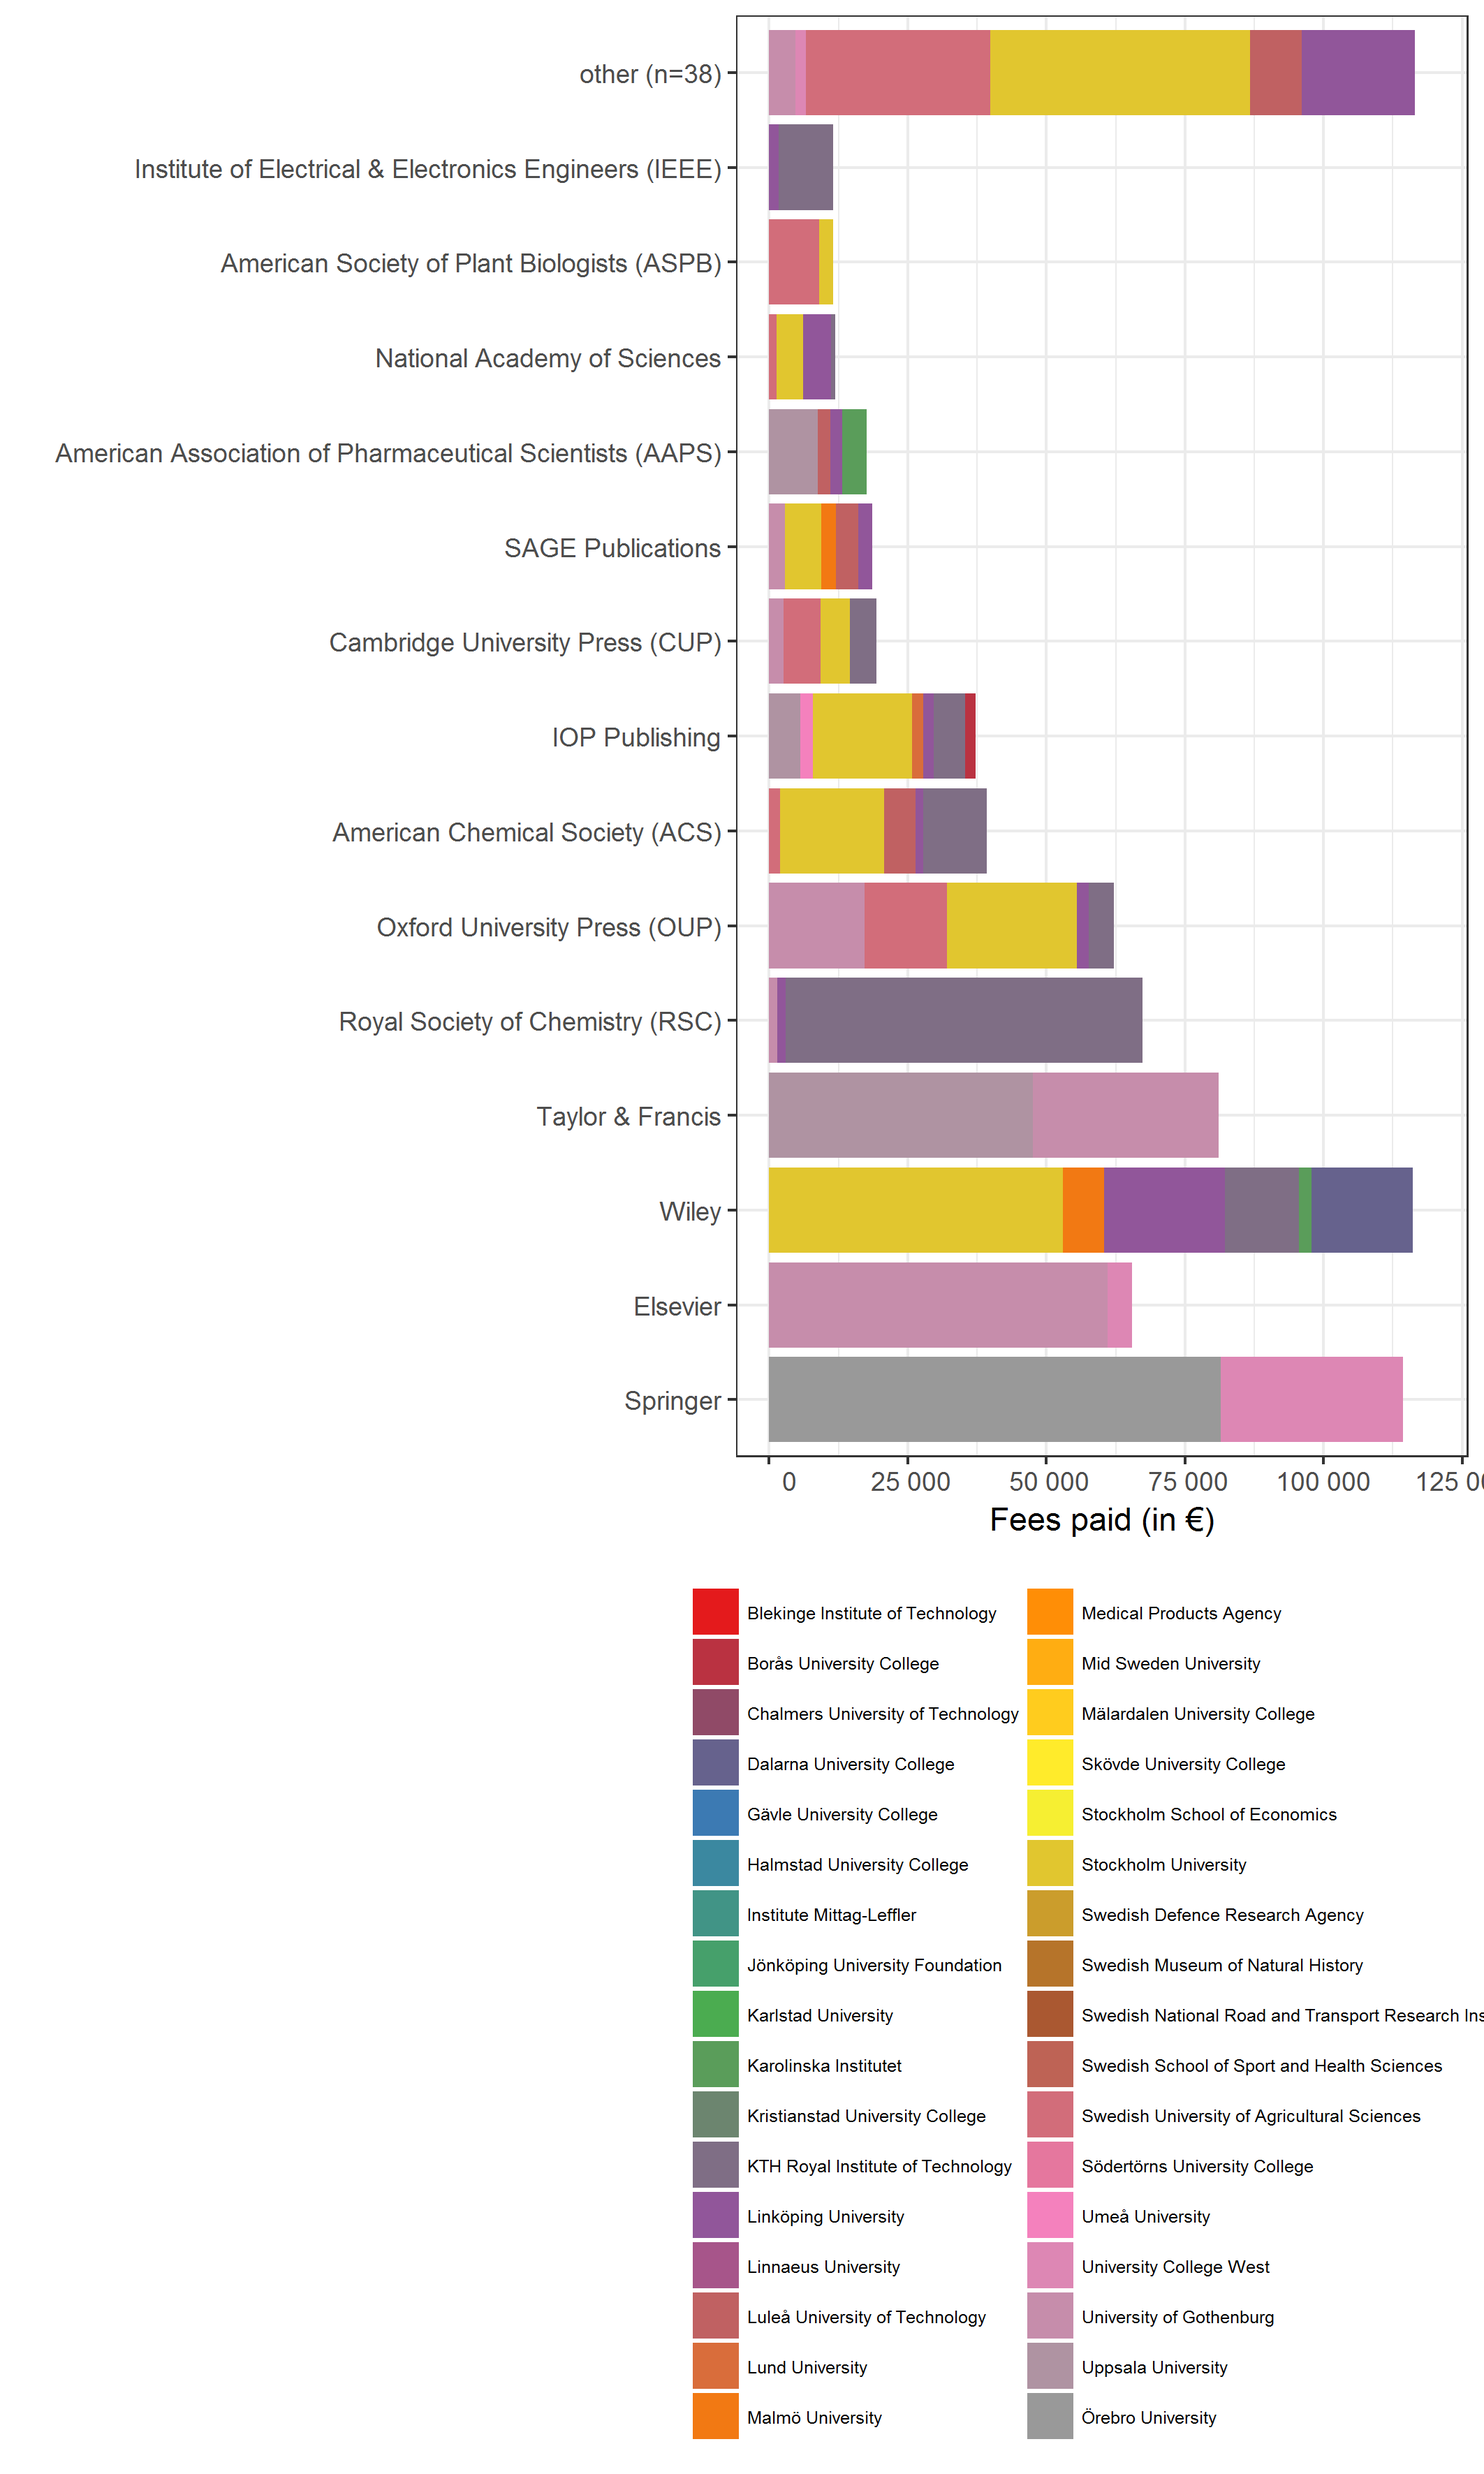
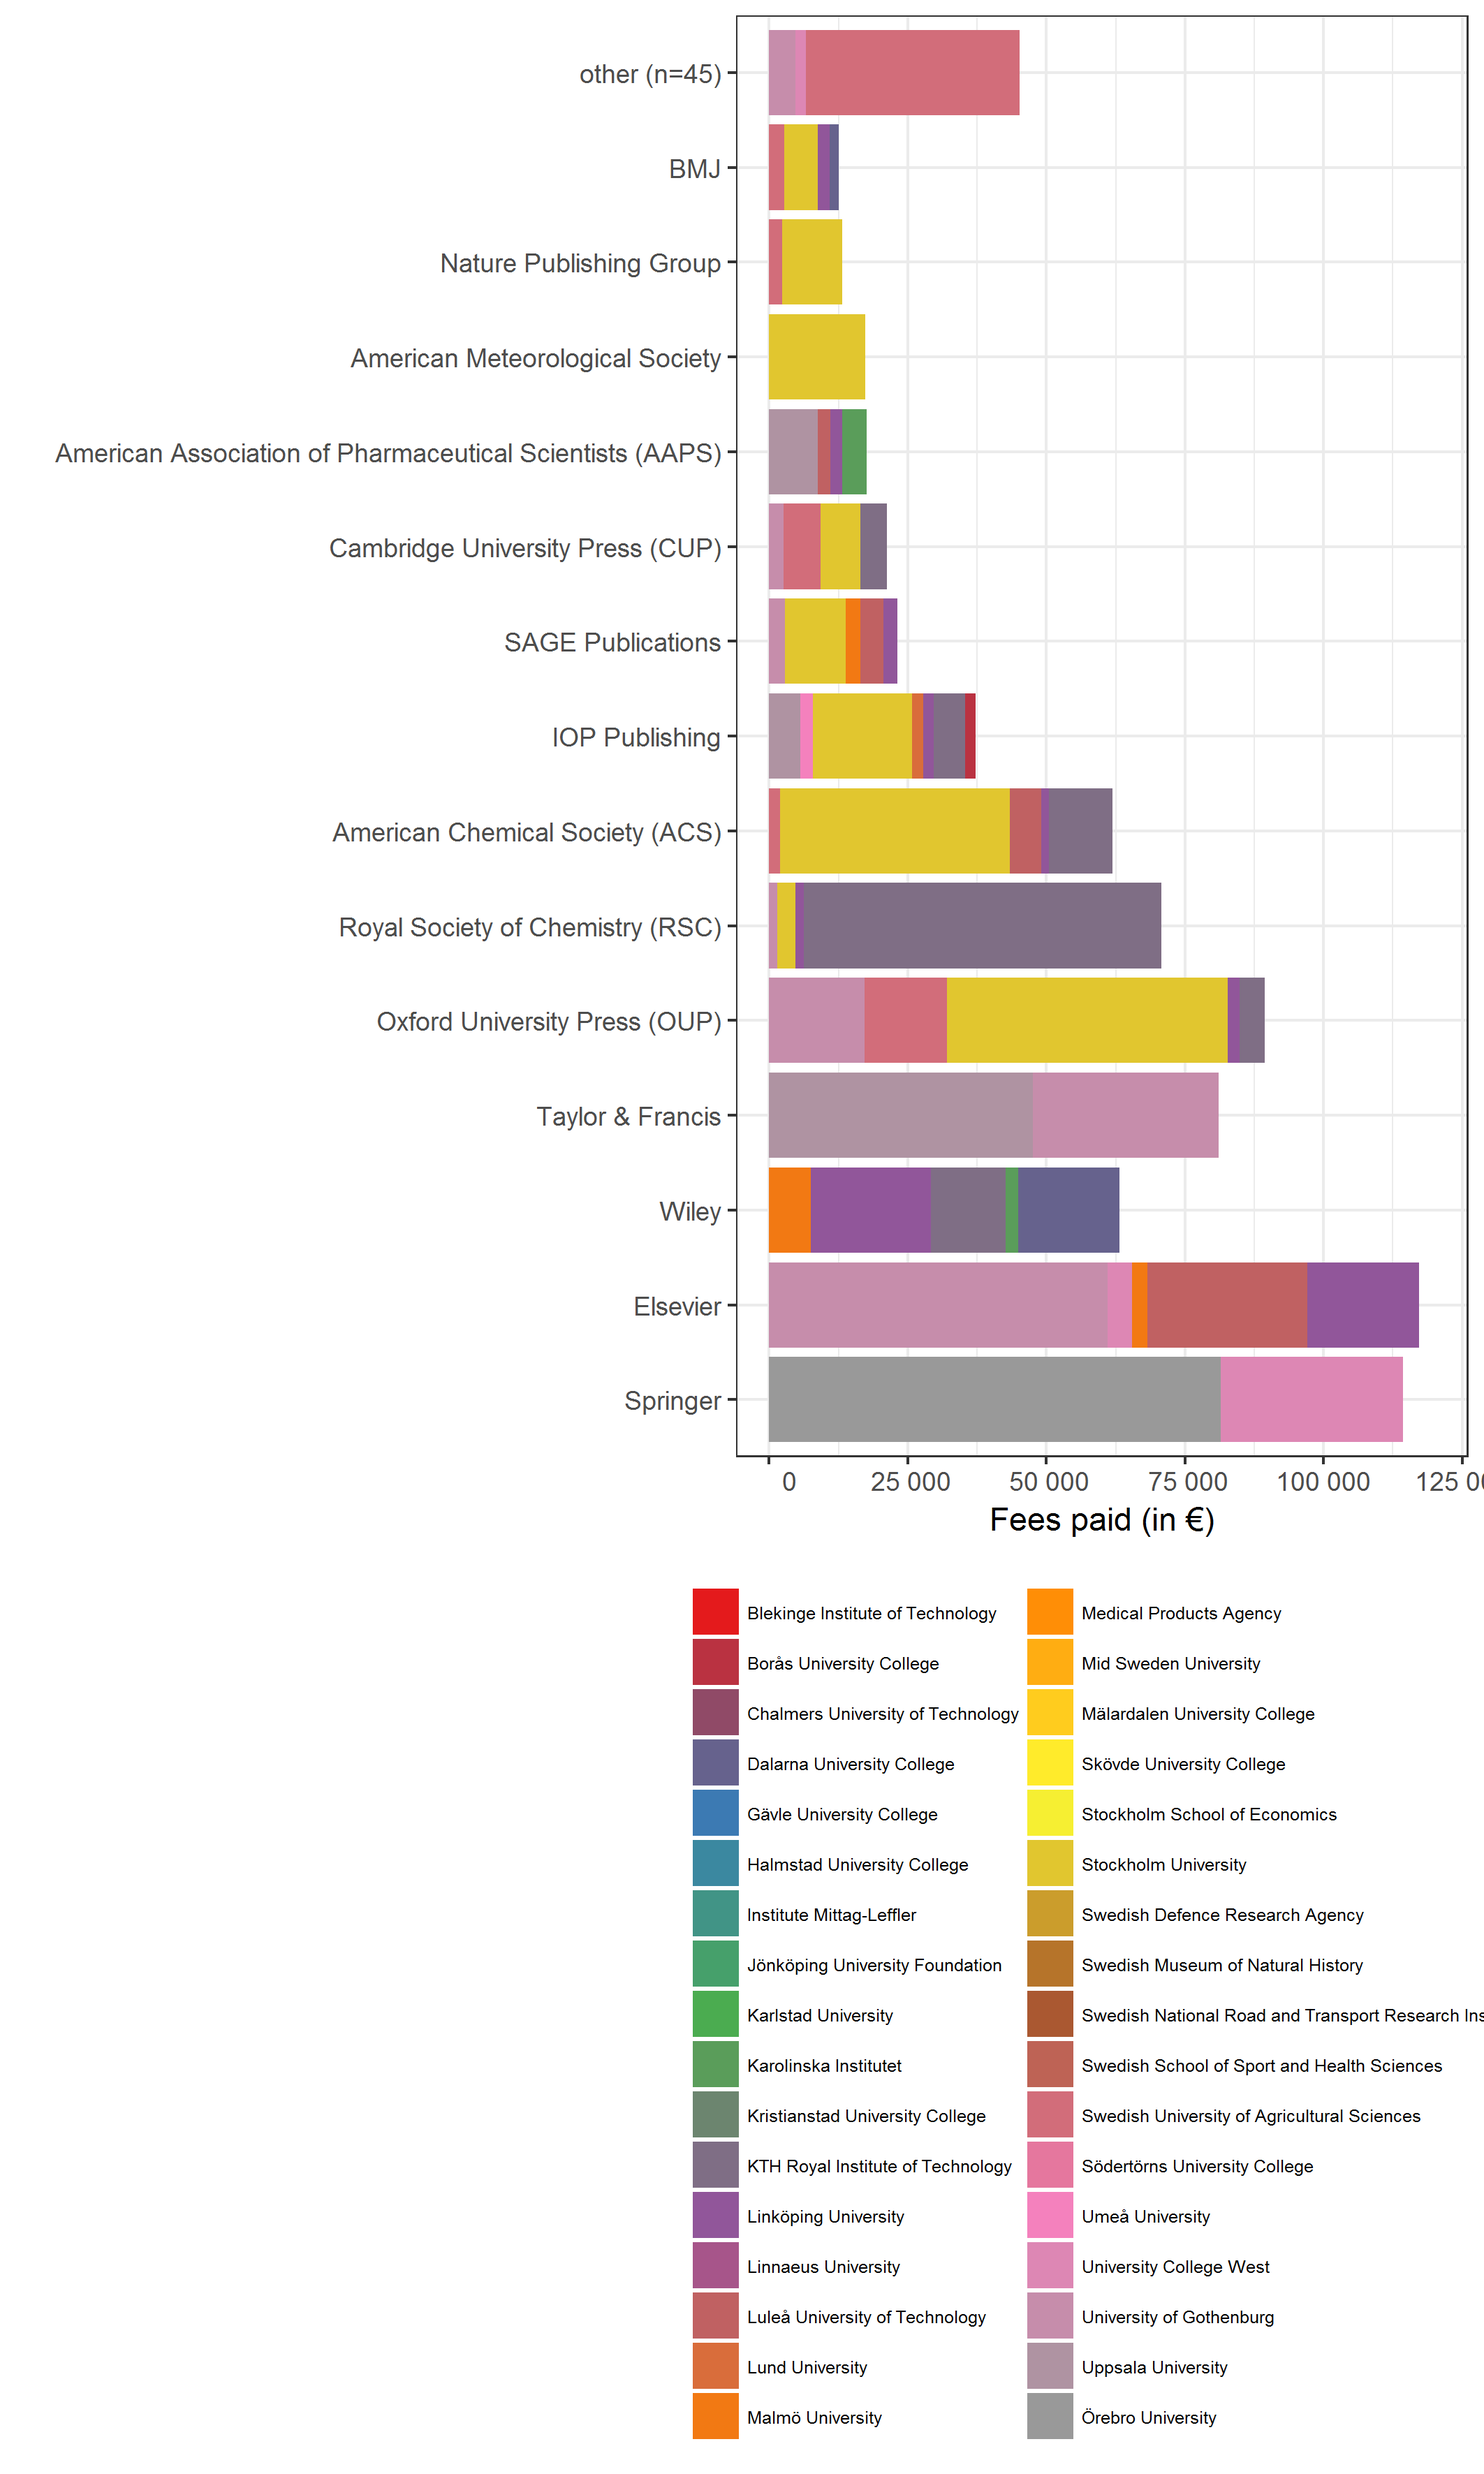
updated md and figures

diff --git a/statistics.md b/statistics.md
@@ -44,9 +44,9 @@ publication of articles in toll-access journals ("hybrid") are provided.
 You may view the dataset at the [project page in
 GitHub](https://github.com/Kungbib/openapc-se/blob/master/data/apc_se.csv).
 
-In total, **7 626 820 €** for **4 046 articles** were paid by the **34
+In total, **8 232 013 €** for **4 360 articles** were paid by the **34
 organisations** that have APC data from so far. The **average APC is 1
-885 €** and the **median is APC 2 200 €**.
+888 €** and the **median is APC 2 200 €**.
 
 <table>
 <thead>
@@ -61,9 +61,9 @@ organisations** that have APC data from so far. The **average APC is 1
 <tbody>
 <tr class="odd">
 <td align="right">34</td>
-<td align="right">4 046</td>
-<td align="right">7 626 820</td>
-<td align="right">1 885</td>
+<td align="right">4 360</td>
+<td align="right">8 232 013</td>
+<td align="right">1 888</td>
 <td align="right">2 200</td>
 </tr>
 </tbody>
@@ -74,9 +74,9 @@ Open Access Articles (Total: both "gold" and "hybrid" OA)
 
 At the moment, the dataset contains the following information:
 
--   Number of articles: **4 046**
--   Total expenditure: **7 626 820 €**
--   Average fee: **1 885 €**
+-   Number of articles: **4 360**
+-   Total expenditure: **8 232 013 €**
+-   Average fee: **1 888 €**
 -   Median fee: **2 200 €**
 
 Articles and APC costs per institution:
@@ -178,9 +178,9 @@ Articles and APC costs per institution:
 </tr>
 <tr class="odd">
 <td>Linköping University</td>
-<td align="right">338</td>
-<td align="right">627 870</td>
-<td align="right">1 858</td>
+<td align="right">341</td>
+<td align="right">631 503</td>
+<td align="right">1 852</td>
 <td align="right">2 132</td>
 </tr>
 <tr class="even">
@@ -248,10 +248,10 @@ Articles and APC costs per institution:
 </tr>
 <tr class="odd">
 <td>Stockholm University</td>
-<td align="right">399</td>
-<td align="right">777 645</td>
-<td align="right">1 949</td>
-<td align="right">2 200</td>
+<td align="right">710</td>
+<td align="right">1 379 205</td>
+<td align="right">1 943</td>
+<td align="right">2 142</td>
 </tr>
 <tr class="even">
 <td>Swedish Defence Research Agency</td>
@@ -339,10 +339,10 @@ Articles in Open Access journals ("gold OA")
 At the moment, the dataset contains the following information on
 articles in open access journals:
 
--   Number of articles: **1 316**
--   Total expenditure: **1 663 663 €**
--   Average fee: **1 264 €**
--   Median fee: **1 326 €**
+-   Number of articles: **1 479**
+-   Total expenditure: **1 910 508 €**
+-   Average fee: **1 292 €**
+-   Median fee: **1 323 €**
 
 Articles and APC costs per institution:
 
@@ -387,10 +387,10 @@ Articles and APC costs per institution:
 </tr>
 <tr class="odd">
 <td>Linköping University</td>
-<td align="right">166</td>
-<td align="right">256 453</td>
-<td align="right">1 545</td>
-<td align="right">1 355</td>
+<td align="right">168</td>
+<td align="right">259 099</td>
+<td align="right">1 542</td>
+<td align="right">1 350</td>
 </tr>
 <tr class="even">
 <td>Linnaeus University</td>
@@ -422,10 +422,10 @@ Articles and APC costs per institution:
 </tr>
 <tr class="even">
 <td>Stockholm University</td>
-<td align="right">109</td>
-<td align="right">163 548</td>
-<td align="right">1 500</td>
-<td align="right">1 399</td>
+<td align="right">270</td>
+<td align="right">407 747</td>
+<td align="right">1 510</td>
+<td align="right">1 350</td>
 </tr>
 <tr class="odd">
 <td>Swedish University of Agricultural Sciences</td>
@@ -472,9 +472,9 @@ In many toll-access journals some of the articles are open access after
 a fee has been paid. This model is often called "hybrid open access".
 The dataset covers the following data on hybrid open access articles:
 
--   Number of articles: **2 730**
--   Total expenditure: **5 963 157 €**
--   Average fee: **2 184 €**
+-   Number of articles: **2 881**
+-   Total expenditure: **6 321 505 €**
+-   Average fee: **2 194 €**
 -   Median fee: **2 200 €**
 
 The following institutions have contributed its expenditures for hybrid
@@ -577,9 +577,9 @@ open access.
 </tr>
 <tr class="odd">
 <td>Linköping University</td>
-<td align="right">172</td>
-<td align="right">371 417</td>
-<td align="right">2 159</td>
+<td align="right">173</td>
+<td align="right">372 404</td>
+<td align="right">2 153</td>
 <td align="right">2 200</td>
 </tr>
 <tr class="even">
@@ -647,9 +647,9 @@ open access.
 </tr>
 <tr class="odd">
 <td>Stockholm University</td>
-<td align="right">290</td>
-<td align="right">614 098</td>
-<td align="right">2 118</td>
+<td align="right">440</td>
+<td align="right">971 459</td>
+<td align="right">2 208</td>
 <td align="right">2 200</td>
 </tr>
 <tr class="even">
